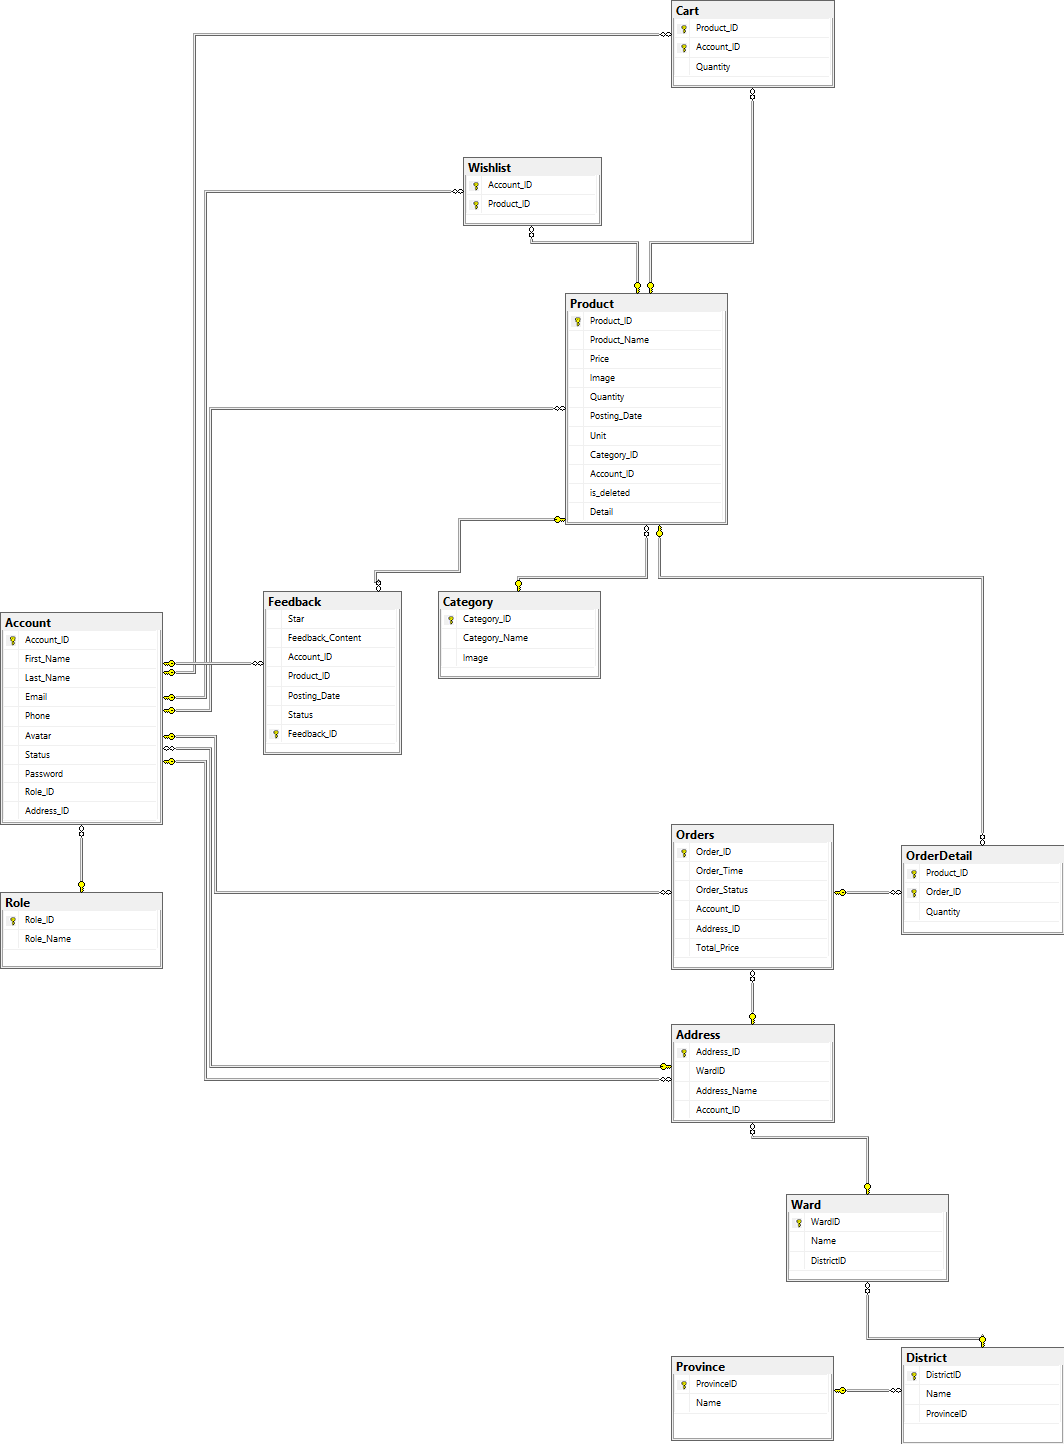
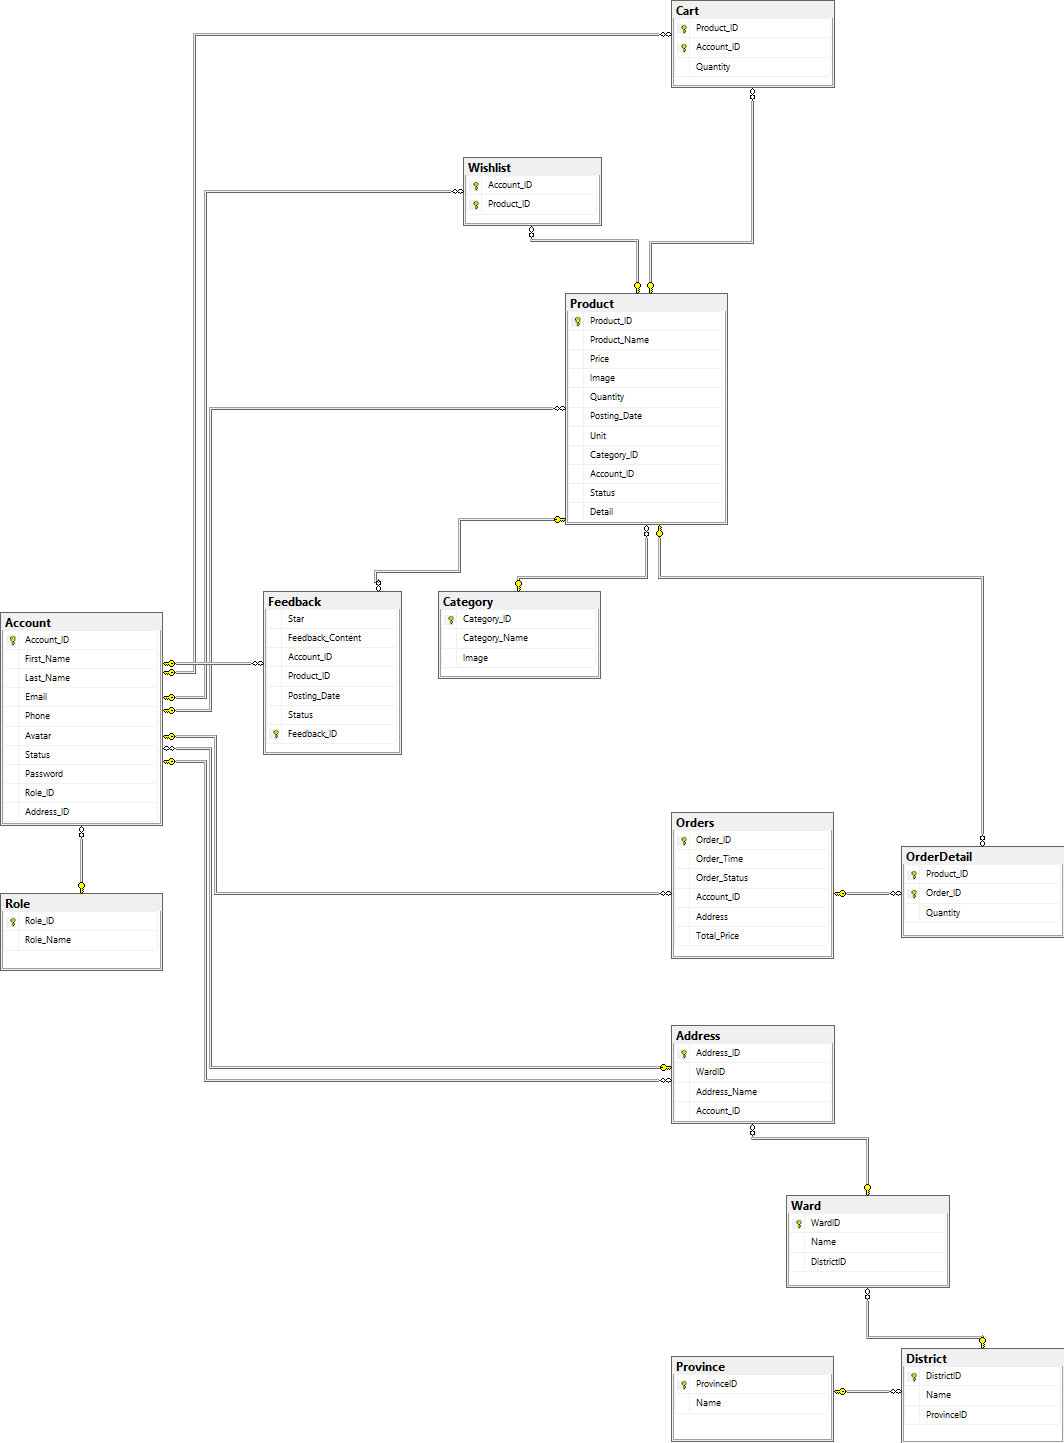
refactor: modify entity

diff --git a/Source/src/main/java/ecofarm/entity/Product.java b/Source/src/main/java/ecofarm/entity/Product.java
@@ -58,8 +58,8 @@ public class Product {
 	@JoinColumn(name = "Account_ID", nullable = false)
 	private Account account;
 	
-	@Column(name = "is_deleted", nullable = false)
-	private int isDeleted;
+	@Column(name = "Status", nullable = false)
+	private int status;
 
 	@OneToMany(fetch = FetchType.LAZY, mappedBy = "product")
 	private Set<Cart> carts = new HashSet<>(0);
@@ -86,7 +86,7 @@ public class Product {
 	}
 
 	public Product(int productId, Category category, String productName, double price, String image, int quantity,
-			String detail, Date postingDate, Date expiryDate, Set<Cart> carts, Set<OrderDetail> orderDetails, Set<Feedback> feedbacks, int isDeleted) {
+			String detail, Date postingDate, Date expiryDate, Set<Cart> carts, Set<OrderDetail> orderDetails, Set<Feedback> feedbacks, int status) {
 		this.productId = productId;
 		this.category = category;
 		this.productName = productName;
@@ -98,7 +98,7 @@ public class Product {
 		this.carts = carts;
 		this.orderDetails = orderDetails;
 		this.feedbacks = feedbacks;
-		this.isDeleted = isDeleted;
+		this.status = status;
 	}
 
 	public int getProductId() {
@@ -204,12 +204,22 @@ public class Product {
 	public void setAccount(Account account) {
 		this.account = account;
 	}
-	
-	public int isProductDeleted() {
-		return this.isDeleted;
+
+	public int getStatus() {
+		return status;
+	}
+
+	public void setStatus(int status) {
+		this.status = status;
+	}
+
+	public Set<Wishlist> getWishlist() {
+		return wishlist;
+	}
+
+	public void setWishlist(Set<Wishlist> wishlist) {
+		this.wishlist = wishlist;
 	}
 	
-	public void setProductDeleted(int isDeleted) {
-		this.isDeleted = isDeleted;
-	}
+	
 }

diff --git a/Report/README.md b/Report/README.md
@@ -16,7 +16,6 @@ Website có những chức năng chính sau
 | Thêm SP vào mục yêu thích | Giúp việc tìm lại sản phẩm dễ dàng hơn cho lần mua sau |
 | Thanh toán, hủy đơn hàng | Thực hiện thanh toán, hủy đơn hàng khi đơn chưa được xác nhận |
 | Quản lý đơn hàng | Admin cập nhật tình trạng đơn hàng sau khi khách hàng đặt hàng. |
-| Quản lý nhân viên | Tạo, khóa, xóa, cập nhật tài khoản nhân viên (admin) |
 | Đánh giá | Khách hàng đánh giá sản phẩm sau khi mua hàng. |
 | Quản lý khách hàng | Xóa/khóa tài khoản khách hàng nếu họ vi phạm |
 | Quản lý category, Products | CRUD Categories, Products |
@@ -40,14 +39,14 @@ District (**DistrictID**, Name, **_ProvinceID_**)
 
 Province (**ProvinceID**, Name)
 
-Product (**Product_ID**, Product_Name, Price, Image, Quantity, Detail, Posting_Date, Unit, **_Category_ID_**, **_Account_ID_**, is_deleted)
+Product (**Product_ID**, Product_Name, Price, Image, Quantity, Detail, Posting_Date, Unit, **_Category_ID_**, **_Account_ID_**, Status)
 
 Cart (**Product_ID**, **Account_ID**, Quantity)
 - Bảng Cart có ``Product_ID`` và ``Account_ID`` là PK và FK 
 
 Orders (**Order_ID**, Order_Time, Order_Status, **_Address_ID_**, **_Account_ID_**, Total_Price)	
 
-Order_Detail (**Order_ID**, **Product_ID**, Quantity, Unit_Price)
+Order_Detail (**Order_ID**, **Product_ID**, Quantity, Product_Unit_Price)
 - Bảng Order_Detail có ``Product_ID`` và ``Order_ID`` là PK và FK 
 
 Wishlist (**Account_ID**, **Product_ID**)
